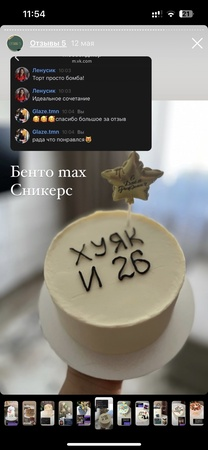
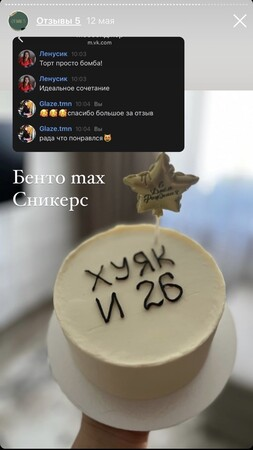
swiper отзывы заменен на другой

diff --git a/src/pages/HomePage.vue b/src/pages/HomePage.vue
@@ -53,21 +53,11 @@
     </section>
     <div class="swiperReviews center">
         <h2 class="swiperReviews__title">Отзывы</h2>
-        <swiper ref="{swiperRef}" :slidesPerView="3" :centeredSlides="true" :spaceBetween="30" :pagination="{
-            type: 'fraction',
-        }" :navigation="true" :modules="modules" class="mySwiper">
+        <swiper :slidesPerView="3" :spaceBetween="30" :pagination="{
+            clickable: true,
+        }" :modules="modules" class="mySwiper">
             <swiper-slide v-for="item in reviewsSwiper" :key="index"><img :src="item" alt="отзывы"></swiper-slide>
         </swiper>
-
-        <p class="append-buttons"></p>
-        <!-- <swiper :spaceBetween="30" :centeredSlides="true" :autoplay="{
-            delay: 2500,
-            disableOnInteraction: false,
-        }" :pagination="{
-    clickable: true,
-}" :navigation="true" :modules="modules" class="mySwiper">
-            <swiper-slide v-for="item in reviewsSwiper" :key="index"><img :src="item" alt="отзывы"></swiper-slide>
-        </swiper> -->
     </div>
 </template>
 
@@ -75,19 +65,18 @@
 import ProductComponent from '@/components/ProductComponent.vue';
 import { mapState, mapGetters } from 'vuex';
 
-// Import Swiper Vue.js components
 import { Swiper, SwiperSlide } from 'swiper/vue';
 
 // Import Swiper styles
 import 'swiper/css';
 
 import 'swiper/css/pagination';
-import 'swiper/css/navigation';
 
-// import './style.css';
+//   import './style.css';
 
 // import required modules
-import { Pagination, Navigation } from 'swiper/modules';
+import { Pagination } from 'swiper/modules';
+
 
 export default {
     name: "PromoComponent",
@@ -102,7 +91,7 @@ export default {
     },
     setup() {
         return {
-            modules: [Pagination, Navigation],
+            modules: [Pagination],
         };
     },
 }
@@ -112,6 +101,7 @@ export default {
 @import "@/assets/vars";
 
 .swiperReviews {
+    padding-bottom: 60px;
     &__title {
         text-align: center;
         color: $colorSite;
@@ -121,51 +111,33 @@ export default {
         font-weight: 700;
         line-height: 62.5px;
         letter-spacing: 1px;
-        padding-top: 30px;
+        padding-top: 40px;
     }
 }
 
 .swiper {
-    width: 100%;
-    height: 100%;
-
-    &-slide {
-        text-align: center;
-        font-size: 18px;
-        background: #fff;
-        display: flex;
-        justify-content: center;
-        align-items: center;
-
-        & img {
-            display: block;
-            width: 100%;
-            height: 100%;
-            object-fit: cover;
-        }
-    }
+  width: 100%;
+  height: 800px;
 }
 
-
-
-
-
-.append-buttons {
-    text-align: center;
-    margin-top: 20px;
+.swiper-slide {
+    height: 670px;
+  text-align: center;
+  font-size: 18px;
+  background: #fff;
+  display: flex;
+  justify-content: center;
+  align-items: center;
 }
 
-.append-buttons button {
-    display: inline-block;
-    cursor: pointer;
-    border: 1px solid #007aff;
-    color: #007aff;
-    text-decoration: none;
-    padding: 4px 10px;
-    border-radius: 4px;
-    margin: 0 10px;
-    font-size: 13px;
+.swiper-slide img {
+  display: block;
+  width: 100%;
+  height: 100%;
+  object-fit: cover;
+  border-radius: 20px 20px 20px 20px;
 }
+
 
 .promo {
     display: flex;

diff --git a/src/store/index.js b/src/store/index.js
@@ -386,6 +386,23 @@ export default createStore({
         price: 1000,
         popularity: 9,
       },
+      //Другое
+      {
+        name: "Фигурки",
+        tag: 'Другое',
+        img: require('@/assets/img/other1.jpg'),
+        description: 'Lorem ipsum dolor sit amet consectetur adipisicing elit. Dicta repellat ipsa dolores nesciunt magni. Veritatis libero minus ex ducimus hic.',
+        price: null,
+        popularity: 7,
+      },
+      {
+        name: "Трубочки",
+        tag: 'Другое',
+        img: require('@/assets/img/other2.jpg'),
+        description: 'Lorem ipsum dolor sit amet consectetur adipisicing elit. Dicta repellat ipsa dolores nesciunt magni. Veritatis libero minus ex ducimus hic.',
+        price: null,
+        popularity: 6,
+      },
     ],
     imgAboutMe: require('@/assets/img/aboutMe.jpg'),
     reviewsSwiper: [

diff --git a/src/components/ProductComponent.vue b/src/components/ProductComponent.vue
@@ -1,6 +1,6 @@
 <template>
     <div class="product">
-        <img class="product__img product__img-big" :src="fil.img">
+        <img class="product__img" :src="fil.img">
         <a class="product__title" href="/catalog">{{ fil.name }}</a>
         <!-- <h2 class="product__title">{{ fil.name }}</h2> -->
         <p class="product__text product__text-price">{{ fil.price }} руб/кг</p>
@@ -30,6 +30,7 @@ export default {
     &__img {
         height: 500px;
         object-fit: cover;
+        border-radius: 20px 20px 20px 20px;
     }
 
     &__title {

diff --git a/src/pages/CatalogProductPage.vue b/src/pages/CatalogProductPage.vue
@@ -100,6 +100,7 @@ export default {
 
 .product-text-box {
     background: $colorPromo;
+    padding-bottom: 20px;
 }
 
 .product-text {
